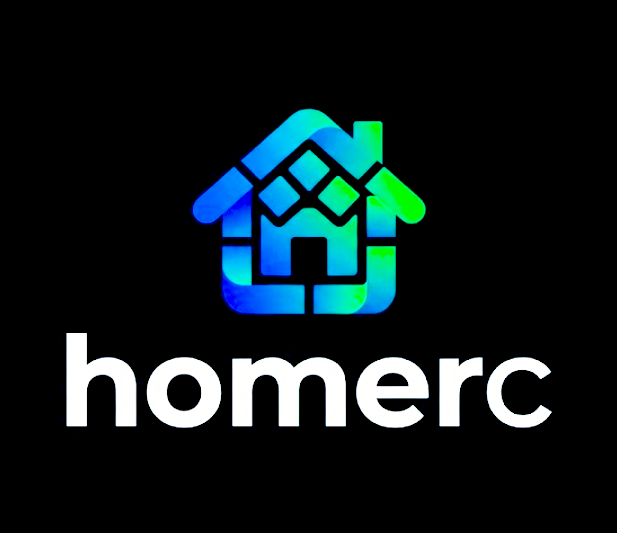
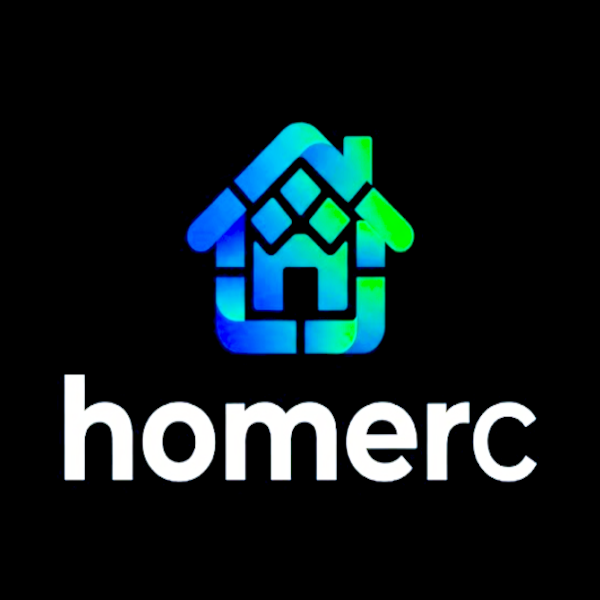
docs: addded docs and updated image to be square

diff --git a/README.md b/README.md
@@ -1,1 +1,47 @@
 # homerc
+
+A customizable browser startpage / new tab replacement for Firefox.
+
+## Features
+
+- 12-hour analog clock with AM/PM
+- DuckDuckGo search bar (press Enter to search)
+- Quick links: DuckDuckGo, YouTube, GitHub, ChatGPT, Claude
+- Custom shortcuts: add, edit, delete your own links from settings (gear icon)
+- Drawing canvas: full-screen whiteboard with Blank, Lined, Grid, and Dots templates; adjustable brush size and color; undo/redo (Ctrl+Z / Ctrl+Shift+Z); save as PNG
+- Custom background image: upload from settings, stored in localStorage
+- Dark theme with frosted-glass search bar
+
+## Usage
+
+Load as a temporary add-on in Firefox:
+
+1. Go to `about:debugging#/runtime/this-firefox`
+2. Click **Load Temporary Add-on**
+3. Select `manifest.json`
+
+Or zip the contents and submit to AMO.
+
+## Build
+
+```bash
+cd homerc && zip -r ../homerc.zip . -x homerc.zip
+```
+
+## Project Structure
+
+```
+homerc/
+  manifest.json          Extension manifest (MV3)
+  index.html             Main page / new tab
+  css/style.css          Styles
+  js/script.js           Clock, search, shortcuts, background
+  js/canvas.js           Drawing canvas logic
+  js/canvasTemplates.js  Canvas background templates
+  icons/homerc.png       Extension icon
+  LICENSE                MIT
+```
+
+## License
+
+MIT